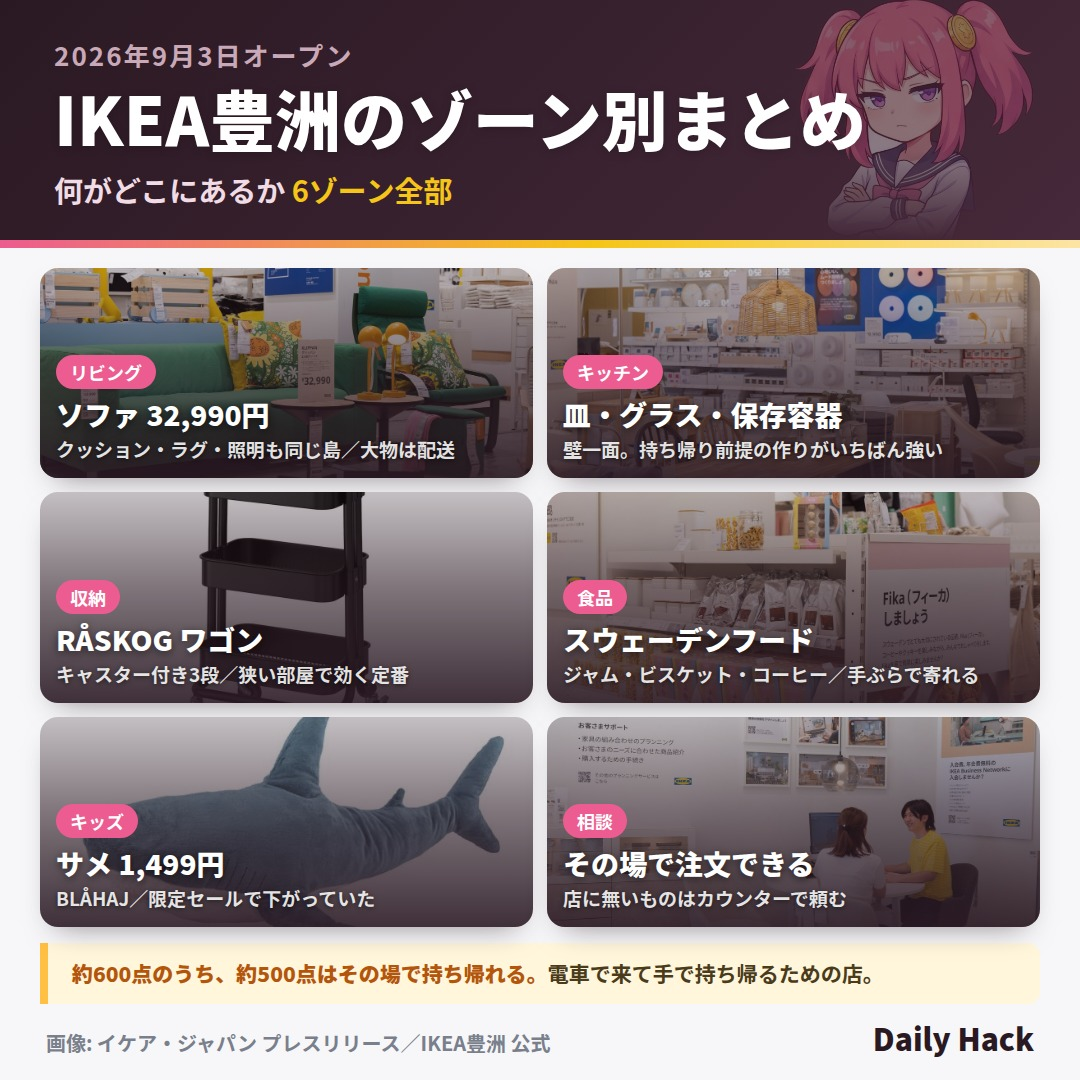
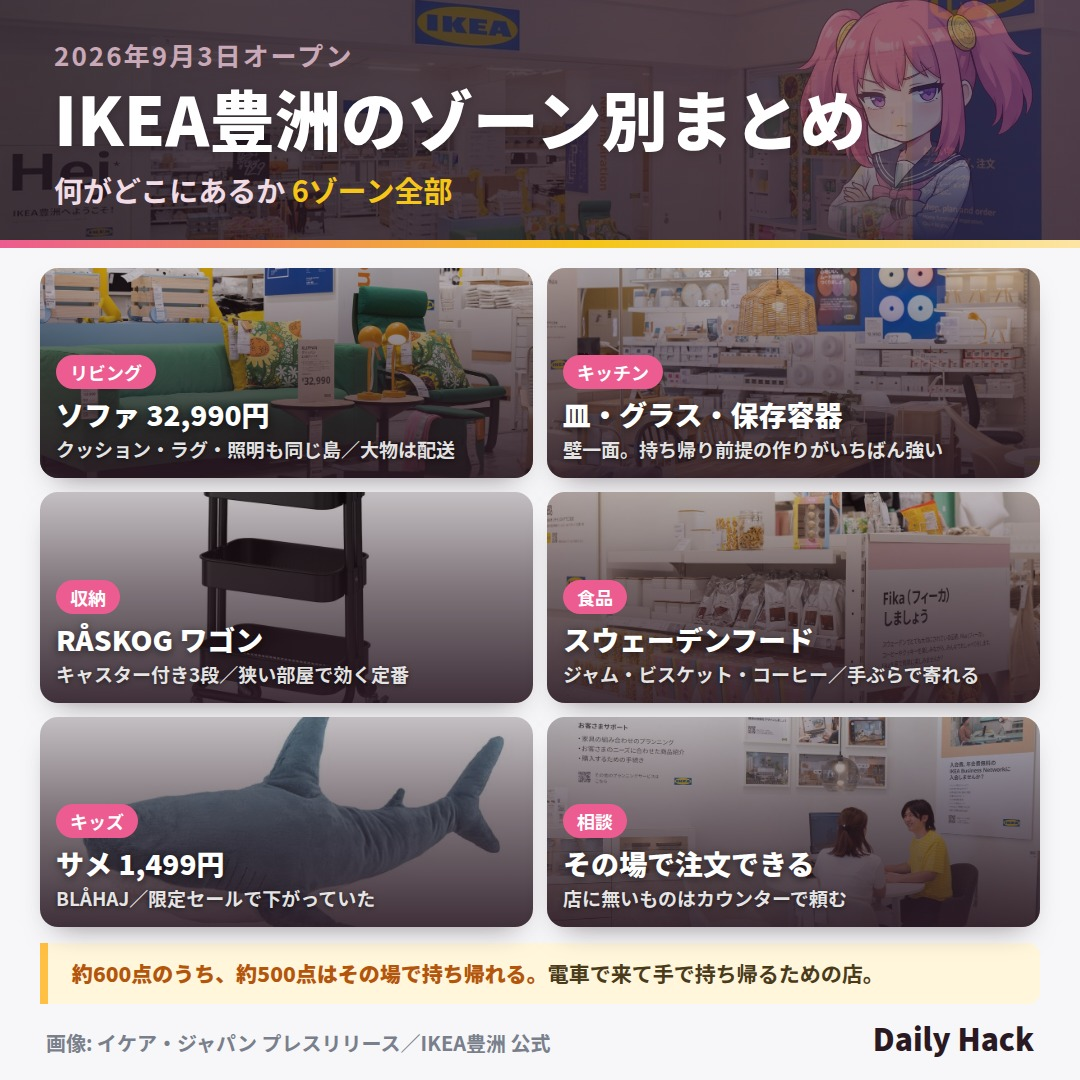
feat: 帯に背景写真を敷けるようにする（cover.bgImage）
2026-09-05 の指摘「1枚目の帯に、その場所の画像を透過させて背景として
うっすら写して」。

cover.bgImage（imageBase からの相対パス）と cover.bgOpacity（既定 0.22）を
追加した。テーマの地色の上に薄く敷く。

文字が乗るので、下側ほど濃くなるスクリムを重ねて可読性を確保している。
これが無いと写真の明るい部分で kicker が沈む。

重なりは 帯の写真(0) → キャラ(1) → 文字(2)。

IKEA豊洲では ららぽーとの外観写真が素材に無いため、店舗入口
（「Hej」の壁と IKEA サイン・ららぽーと豊洲2階）で代えている。
借りている写真なので cover.source のクレジットは残す。

Claude-Session: https://claude.ai/code/session_01H2JQqdMCeKNiMVUTrAyX2t

diff --git a/.claude/skills/x-post-images/SKILL.md b/.claude/skills/x-post-images/SKILL.md
@@ -176,6 +176,7 @@ node scripts/gen-x-cards.mjs ops/data/x-cards/<slug>.json
 | 2026-09-05 | **1 枚目の「公式サイトで確認」はいらないので画像から削除して**（上の帯 → 下端の出典行の順に 2 回 指摘された） | `cover.source` を外した。**「出典を焼き込む」は既定であって、利用者の指示より上ではない。**「全部 公式で確かめた」は本文で言えば足りる情報であり、画像の中で 2 か所（帯と下端）繰り返すと**告知としてくどい**。**実写を借りている 2〜4 枚目の `credit` は別**で、これは出典表示ではなく**権利表記なので外さない**。判断の順は「①権利表記か → 残す ②中身の担保か → 本文で言えるなら画像からは外してよい」 |
 | 2026-09-05 | **透かしのキャラをもう少し大きく。いまサイズが中途半端** | 帯の高さは dense で **おおよそ 233px**。そこに 168px を置くと上下に 30px ずつ余り、**収まりきらないのでも埋めきるのでもない**中途半端さになる。**帯より少し大きく取って（既定 262px / 非 dense 286px）、はみ出た分は `header { overflow: hidden }` で切る。** 下端は `mask-image` で消えているので切り口は見えない。`cover.mascotHeight` で上書き可。**`overflow: hidden` は必須**——無いと裾がカード格子の上にはみ出す |
 | 2026-09-05 | **画像を差し替えたのに古い絵で出そうとしていた**（利用者の指摘ではなく自分で気づいた） | 投稿タスクは画像を `~/.openclaw/workspace/data/<slug>/` に**取り出してから**キューに積む。キューは**その実ファイルを指す**ので、**あとから絵を直しても取り直さないと古い絵が出る。** 出す側のタスクに「`origin/main` から取り直す」章を必ず入れる。パスが同じならキュー自体は触らなくてよい |
+| 2026-09-05 | **1 枚目の帯に、その場所の画像を透過させて背景としてうっすら写して** | `cover.bgImage`（`imageBase` からの相対パス）と `cover.bgOpacity`（既定 0.22）を追加。テーマの地色の上に薄く敷く。**文字が乗るので下側ほど濃くなるスクリムを重ねる**（`.bgscrim`）——これが無いと写真の明るい部分で kicker が沈む。重なりは **帯の写真(0) → キャラ(1) → 文字(2)**。**借りている写真なら `cover.source` にクレジットを出すこと**。素材に外観写真が無いときは**近いもので代える前に、無いことを言う**（IKEA豊洲では ららぽーとの外観が無く、店舗入口で代えた） |
 <!-- 追記はこの表の下に。日付・指摘・反映 の 3 列を必ず埋める -->
 
 ## 7. 関連
